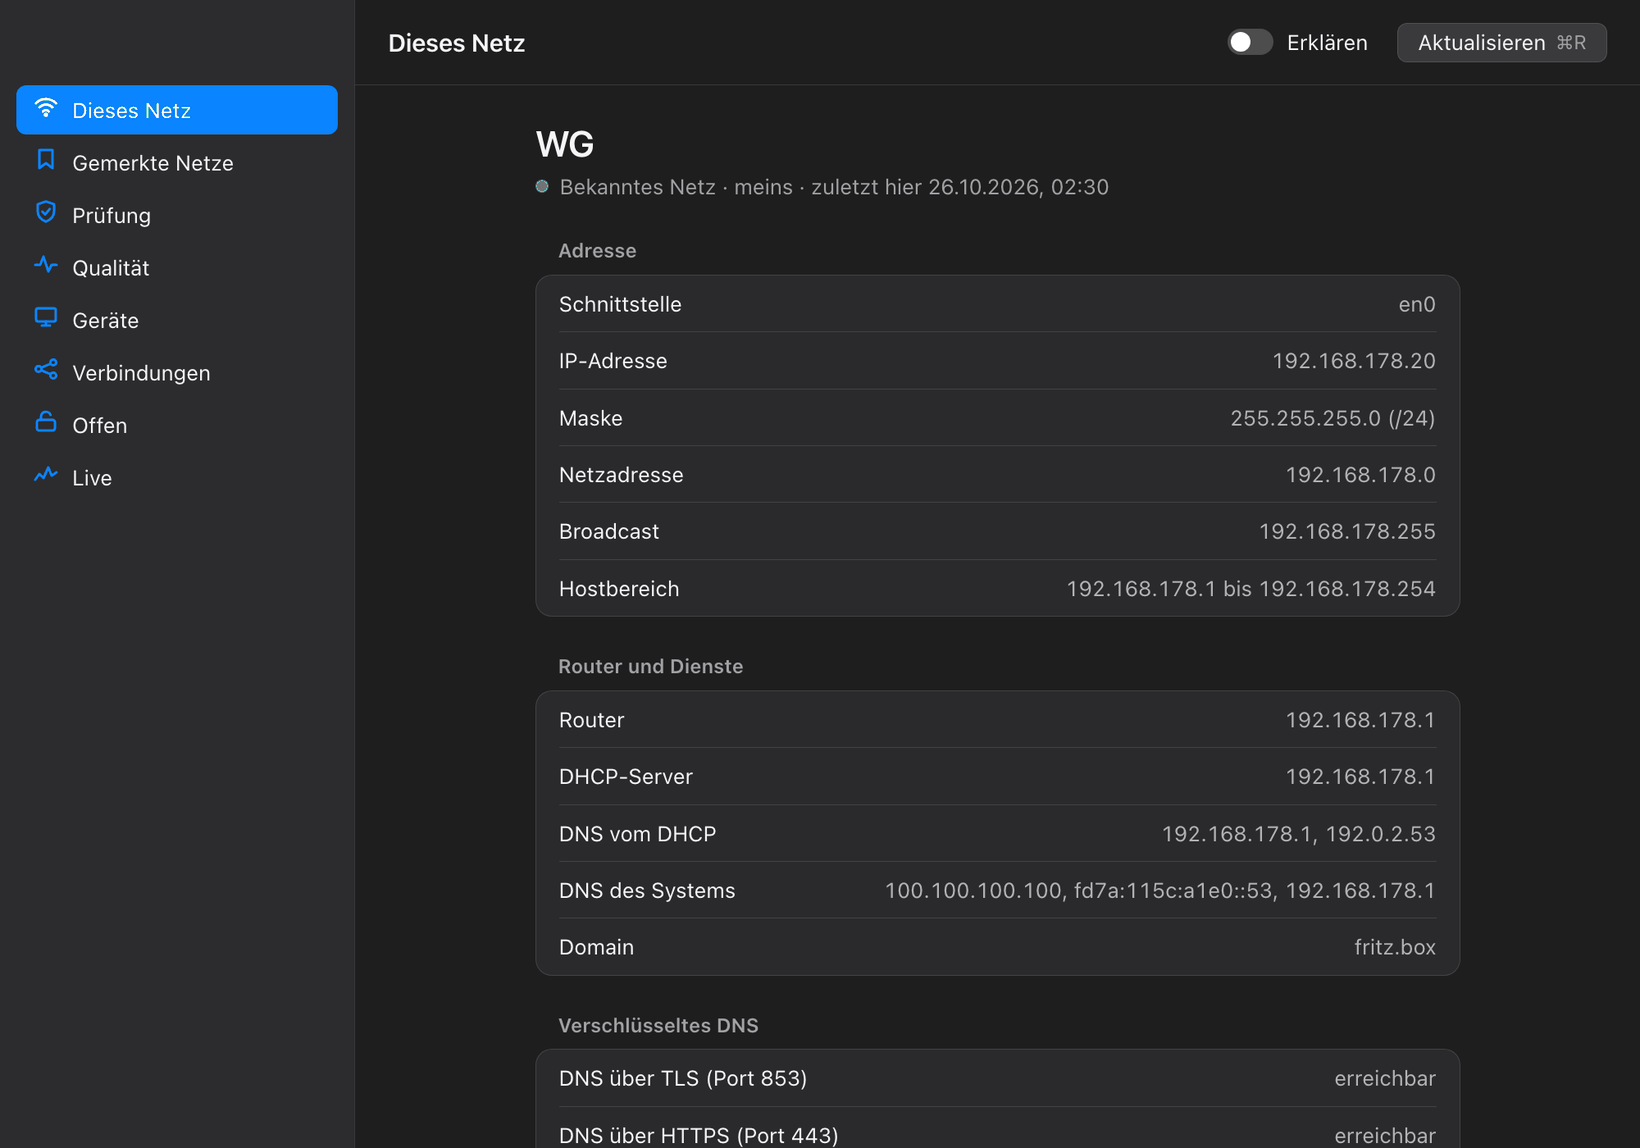
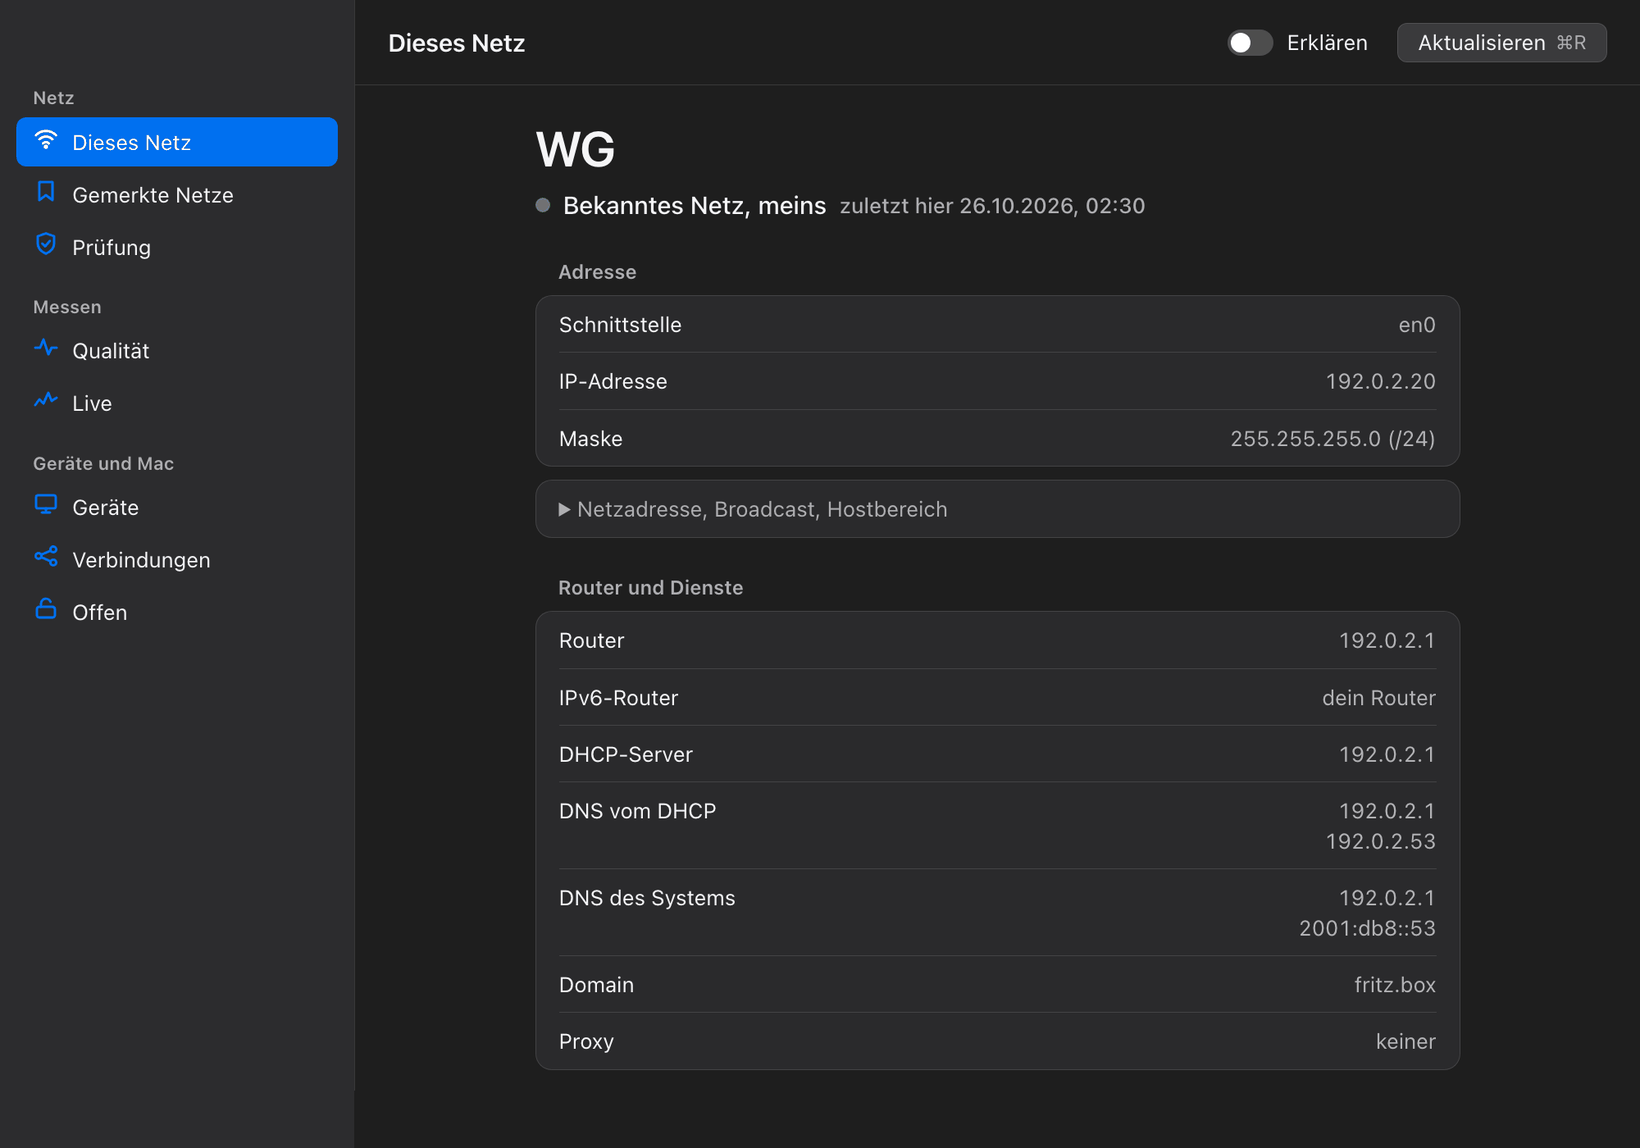
README: Screenshots nach dem Feinschliff, Texte zu Portfreigaben, Mitteilungen und Tippfehler-Vorschlag (#130) (#165)

diff --git a/README.md b/README.md
@@ -28,7 +28,7 @@
 <p align="center">
   <picture>
     <source media="(prefers-color-scheme: dark)" srcset="docs/bilder/dieses-netz-dunkel.png">
-    <img src="docs/bilder/dieses-netz-hell.png" width="820" alt="Netzinfo-Fenster mit der Ansicht „Dieses Netz“: Netzname, Adresse, Router, DNS und WLAN">
+    <img src="docs/bilder/dieses-netz-hell.png" width="820" alt="Netzinfo-Fenster mit der Ansicht „Dieses Netz“: Das Netz „WG“ ist wiedererkannt, darunter Adresse, Router, DHCP, DNS und Proxy">
   </picture>
 </p>
 
@@ -40,12 +40,12 @@ Es gibt Netzinfo als Mac-App und als Kommandozeile `netzinfo`. Beide nutzen dens
 
 <table>
   <tr>
-    <td width="50%"><picture><source media="(prefers-color-scheme: dark)" srcset="docs/bilder/pruefung-dunkel.png"><img src="docs/bilder/pruefung-hell.png" width="400" alt="Ansicht „Prüfung“ mit zwei Alarmen: Der DHCP-Server ist nicht mehr der Router, und das Zertifikat von github.com stammt von einer unbekannten Stelle"></picture><br><sub>Prüfung: Was ist anders als beim letzten Besuch?</sub></td>
+    <td width="50%"><picture><source media="(prefers-color-scheme: dark)" srcset="docs/bilder/pruefung-dunkel.png"><img src="docs/bilder/pruefung-hell.png" width="400" alt="Ansicht „Prüfung“ mit Alarm: Seit dem letzten Besuch haben sich der Weg ins Internet, die DNS-Antworten, der DHCP-Server und das Zertifikat von github.com geändert"></picture><br><sub>Prüfung: Was ist anders als beim letzten Besuch?</sub></td>
     <td width="50%"><picture><source media="(prefers-color-scheme: dark)" srcset="docs/bilder/qualitaet-dunkel.png"><img src="docs/bilder/qualitaet-hell.png" width="400" alt="Ansicht „Qualität“: Antwortzeiten der letzten Stunde zu Router und 1.1.1.1 mit Verlusten und Statistik"></picture><br><sub>Qualität: Wie gut ist die Leitung über den Tag?</sub></td>
   </tr>
   <tr>
-    <td width="50%"><picture><source media="(prefers-color-scheme: dark)" srcset="docs/bilder/geraete-dunkel.png"><img src="docs/bilder/geraete-hell.png" width="400" alt="Ansicht „Geräte“: Router und Fernseher mit offenen Ports und Diensten, Filter nach Gerätetyp"></picture><br><sub>Geräte: Wer ist noch in deinem Netz?</sub></td>
-    <td width="50%"><picture><source media="(prefers-color-scheme: dark)" srcset="docs/bilder/live-dunkel.png"><img src="docs/bilder/live-hell.png" width="400" alt="Ansicht „Live“: Ping-Kurve zu 1.1.1.1 mit Median, Jitter, Verlust und Bewertung für Videoanruf, Spiele und Streaming"></picture><br><sub>Live: Reicht die Leitung gerade für einen Anruf?</sub></td>
+    <td width="50%"><picture><source media="(prefers-color-scheme: dark)" srcset="docs/bilder/geraete-dunkel.png"><img src="docs/bilder/geraete-hell.png" width="400" alt="Ansicht „Geräte“: Router, Fernseher, Mac und Drucker mit Hersteller, Ports und Diensten, darüber Filter nach Gerätetyp"></picture><br><sub>Geräte: Wer ist noch in deinem Netz?</sub></td>
+    <td width="50%"><picture><source media="(prefers-color-scheme: dark)" srcset="docs/bilder/live-dunkel.png"><img src="docs/bilder/live-hell.png" width="400" alt="Ansicht „Live“: Antwortzeit, Jitter und Verlust zu 1.1.1.1 als Kacheln und Kurve, dazu die Eignung für Videoanrufe, Spiele und Streaming"></picture><br><sub>Live: Reicht die Leitung gerade für einen Anruf?</sub></td>
   </tr>
 </table>
 
@@ -53,11 +53,11 @@ Es gibt Netzinfo als Mac-App und als Kommandozeile `netzinfo`. Beide nutzen dens
 - **Gemerkte Netze** sind alle Netze, die du dir gemerkt hast. Nur ein Netz, das du als „meins“ markierst, darf Netzinfo nach Geräten und Ports absuchen.
 - **Prüfung** vergleicht mit dem letzten Besuch: Router und DHCP, DNS-Antworten, Sperren und Umleitungen, Zertifikate (erkennt SSL-Inspection), öffentliche IP, Webfilter am Servernamen, Portfreigaben des Routers und den Weg ins Internet. Jede Abweichung ist harmlos, auffällig oder Alarm.
 - **Qualität** sammelt Antwortzeiten und Aussetzer und kopiert sie als Bericht für den IT-Support. „Wo hakt es?“ grenzt ein, ob es am Funk, am Router, am DNS oder am Internet liegt. Dazu WLAN-Verlauf und Kanalwahl, MTU, der Weg Hop für Hop, IPv4 gegen IPv6, die Uhrzeit, DNS-Server im Vergleich, Antwortzeit unter Last und ausgehende Ports.
-- **Geräte** findet Geräte im eigenen Netz, mit Hersteller und Namen aus Bonjour, UPnP und DNS, und merkt sich, wer neu dazugekommen ist. Beim Router schätzt es die Router-Oberfläche ein, ohne sich anzumelden.
+- **Geräte** findet Geräte im eigenen Netz, mit Hersteller und Namen aus Bonjour, UPnP und DNS, und merkt sich, wer neu dazugekommen ist. Beim Router schätzt es die Router-Oberfläche ein, ohne sich anzumelden, und zeigt, welche Ports er per UPnP ins Internet geöffnet hat.
 - **Verbindungen** zeigt jede aktive Verbindung je Programm mit Zielname, wer gerade wie viel sendet und mit „Woher?“, wer ein Programm gestartet hat.
 - **Offen** zeigt, welche Programme auf deinem Mac lauschen, ob nur für den Mac selbst oder fürs ganze Netz, und ob sie von Apple signiert sind.
 - **Live** zeichnet eine Ping-Kurve mit Jitter und Verlust und sagt, ob die Leitung für Anrufe und Spiele reicht.
-- **In der Menüleiste** wacht Netzinfo weiter, wenn das Fenster zu ist: Nach jedem Netzwechsel prüft es und meldet sich, wenn etwas auffällt.
+- **In der Menüleiste** wacht Netzinfo weiter, wenn das Fenster zu ist: Nach jedem Netzwechsel prüft es und schickt eine Mitteilung, wenn etwas auffällt. Auf Wunsch startet es mit der Anmeldung.
 
 ## Installieren
 
@@ -72,7 +72,7 @@ Im Terminal gehen Schritt 2 und 3 auch so: `xattr -dr com.apple.quarantine /Appl
 
 ## Kommandozeile
 
-Alle Befehle verstehen `--erklaer`. Was Netzinfo dabei sagt, ist Prüfungsstoff, hier am Beispiel Subnetting:
+`netzinfo --help` zeigt alle Befehle nach Thema, bei einem Tippfehler fragt Netzinfo nach („Meintest du `netzinfo pruefen`?“). Alle Befehle verstehen `--erklaer`. Was Netzinfo dabei sagt, ist Prüfungsstoff, hier am Beispiel Subnetting:
 
 ```console
 $ netzinfo subnetz 192.0.2.77/26 --erklaer
